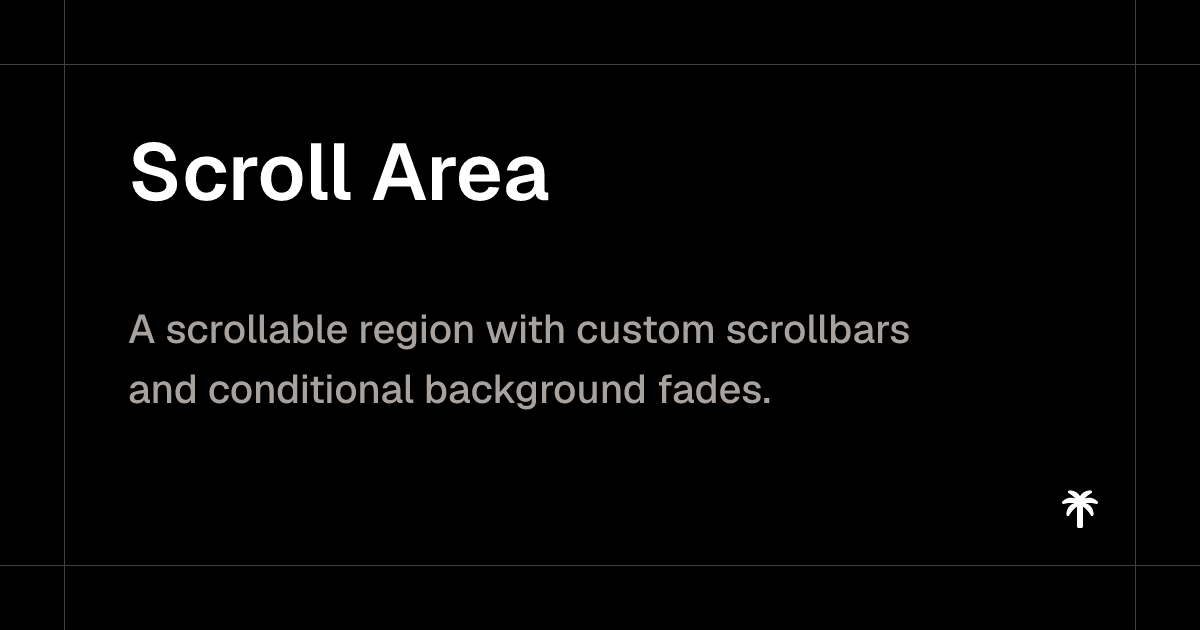
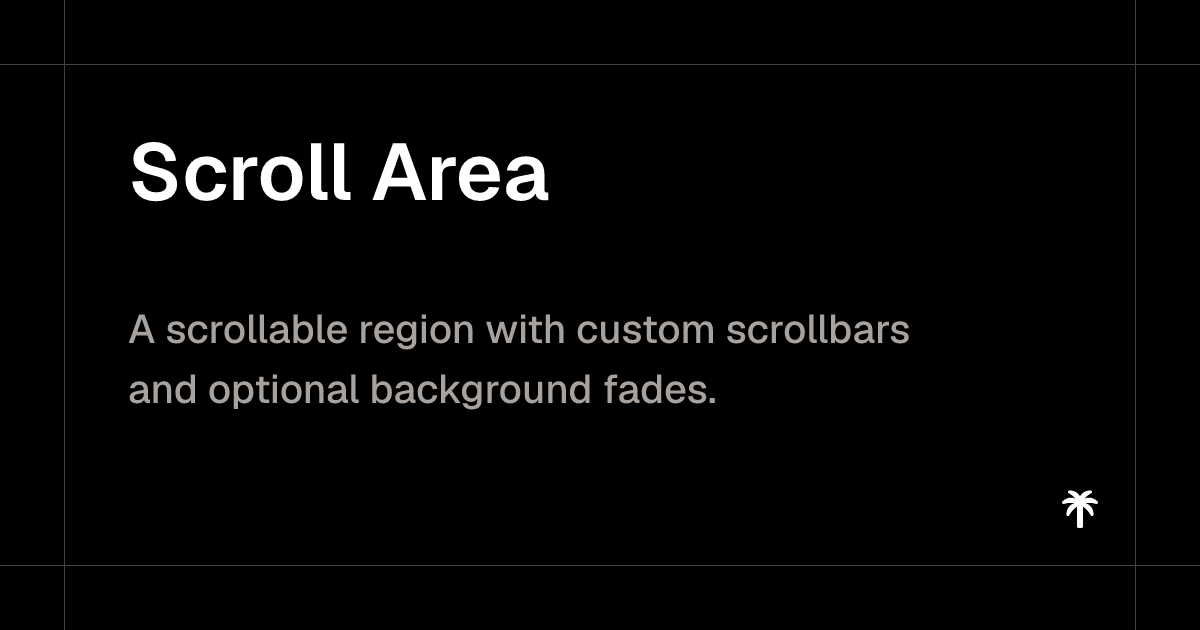
feat: add more examples to scroll-area

Changed region(s): [[0.185, 0.573, 0.6475, 0.6635]]

diff --git a/src/shared/components/component-preview-tabs.tsx b/src/shared/components/component-preview-tabs.tsx
@@ -49,7 +49,7 @@ export function ComponentPreviewTabs({
         <div
           data-slot="code"
           data-mobile-code-visible={isMobileCodeVisible}
-          className="relative overflow-hidden **:data-[slot=copy-button]:right-4 **:data-[slot=copy-button]:hidden data-[mobile-code-visible=true]:**:data-[slot=copy-button]:flex md:**:data-[slot=copy-button]:flex [&_[data-rehype-pretty-code-figure]]:m-0! [&_[data-rehype-pretty-code-figure]]:rounded-t-none [&_[data-rehype-pretty-code-figure]]:border-t [&_pre]:max-h-72"
+          className="relative overflow-hidden **:data-[slot=copy-button]:right-4 **:data-[slot=copy-button]:hidden data-[mobile-code-visible=true]:**:data-[slot=copy-button]:flex md:**:data-[slot=copy-button]:flex [&_[data-rehype-pretty-code-figure]]:m-0! [&_[data-rehype-pretty-code-figure]]:rounded-t-none [&_[data-rehype-pretty-code-figure]]:border-t [&_pre]:max-min-h-72"
         >
           {sourcePreview ? (
             <>
@@ -104,7 +104,7 @@ function PreviewWrapper({
         data-align={align}
         data-chromeless={chromeLessOnMobile}
         className={cn(
-          "preview relative flex h-72 w-full justify-center p-10 data-[align=center]:items-center data-[align=end]:items-end data-[align=start]:items-start data-[chromeless=true]:h-auto data-[chromeless=true]:p-0",
+          "preview relative flex min-h-72 w-full justify-center p-10 data-[align=center]:items-center data-[align=end]:items-end data-[align=start]:items-start data-[chromeless=true]:h-auto data-[chromeless=true]:p-0",
           previewClassName
         )}
       >

diff --git a/examples/hitbox/basic.tsx b/examples/hitbox/basic.tsx
@@ -10,7 +10,7 @@ export default function HitboxDemo() {
   return (
     <div className="relative flex min-h-64 w-full flex-col items-center justify-center gap-5">
       <Label
-        className="absolute top-2 -right-2 flex items-center gap-2 cursor-pointer text-muted-foreground"
+        className="absolute -top-2 -right-1 flex items-center gap-2 cursor-pointer text-muted-foreground"
         htmlFor="show-hitbox"
       >
         <Checkbox
@@ -24,10 +24,10 @@ export default function HitboxDemo() {
       <Button
         className={`group/hitbox w-30 hitbox-6 ${showHitbox ? "hitbox-debug" : ""}`}
       >
-        <span className="group-hover/hitbox:hidden group-active:hidden">
+        <span className="group-hover/hitbox:hidden group-active/hitbox:hidden">
           hitbox-6
         </span>
-        <span className="not-group-hover/hitbox:hidden group-active:hidden">
+        <span className="not-group-hover/hitbox:hidden group-active/hitbox:hidden">
           Hovered
         </span>
         <span className="not-group-active/hitbox:hidden">Pressed</span>

diff --git a/examples/scroll-area/both-shadows.tsx b/examples/scroll-area/both-shadows.tsx
@@ -1,0 +1,36 @@
+import { ScrollArea, ScrollAreaContent } from "@/registry/base/scroll-area";
+
+const shortcuts = [
+  "Command palette",
+  "Toggle sidebar",
+  "Search docs",
+  "Open settings",
+  "New project",
+  "Invite member",
+  "Copy link",
+  "Switch theme",
+  "Open terminal",
+  "View activity",
+  "Send feedback",
+  "Sign out",
+];
+
+export default function ScrollAreaBothShadowsDemo() {
+  return (
+    <div className="border rounded-md">
+      <ScrollArea className="h-64 w-80" orientation="both" scrollShadow="both">
+        <ScrollAreaContent className="grid w-max grid-cols-3 gap-3 p-4">
+          {shortcuts.map((shortcut, index) => (
+            <div
+              className="flex h-24 w-40 flex-col justify-between rounded-md border p-3"
+              key={shortcut}
+            >
+              <p className="font-medium text-sm">{shortcut}</p>
+              <kbd className="text-muted-foreground text-xs">⌘ {index + 1}</kbd>
+            </div>
+          ))}
+        </ScrollAreaContent>
+      </ScrollArea>
+    </div>
+  );
+}

diff --git a/examples/scroll-area/vertical-shadow.tsx b/examples/scroll-area/vertical-shadow.tsx
@@ -1,0 +1,31 @@
+import { ScrollArea, ScrollAreaContent } from "@/registry/base/scroll-area";
+
+const activity = [
+  "Published the new component registry.",
+  "Reviewed accessibility labels.",
+  "Updated the color tokens.",
+  "Added responsive navigation.",
+  "Resolved the latest feedback.",
+  "Prepared the release notes.",
+  "Synced the design files.",
+  "Scheduled the next review.",
+];
+
+export default function ScrollAreaVerticalShadowDemo() {
+  return (
+    <div className="border rounded-md">
+      <ScrollArea className="h-64 w-80" scrollShadow="vertical">
+        <ScrollAreaContent className="space-y-3 p-4">
+          {activity.map((item, index) => (
+            <div className="rounded-md border p-3 text-sm" key={item}>
+              <p>{item}</p>
+              <p className="text-muted-foreground mt-1 text-xs">
+                {index + 1} hour{index === 0 ? "" : "s"} ago
+              </p>
+            </div>
+          ))}
+        </ScrollAreaContent>
+      </ScrollArea>
+    </div>
+  );
+}

diff --git a/examples/scroll-area/horizontal-shadow.tsx b/examples/scroll-area/horizontal-shadow.tsx
@@ -1,0 +1,26 @@
+import { ScrollArea, ScrollAreaContent } from "@/registry/base/scroll-area";
+
+const months = ["January", "February", "March", "April", "May", "June"];
+
+export default function ScrollAreaHorizontalShadowDemo() {
+  return (
+    <div className="border rounded-md">
+      <ScrollArea
+        className="h-48 w-80"
+        orientation="horizontal"
+        scrollShadow="horizontal"
+      >
+        <ScrollAreaContent className="flex h-full w-max gap-3 p-4">
+          {months.map((month, index) => (
+            <div className="w-40 shrink-0 rounded-md border p-3" key={month}>
+              <p className="font-medium text-sm">{month}</p>
+              <p className="text-muted-foreground mt-6 text-xs">
+                {12 + index * 3} tasks planned
+              </p>
+            </div>
+          ))}
+        </ScrollAreaContent>
+      </ScrollArea>
+    </div>
+  );
+}

diff --git a/examples/scroll-area/horizontal-layout.tsx b/examples/scroll-area/horizontal-layout.tsx
@@ -1,0 +1,25 @@
+import { ScrollArea, ScrollAreaContent } from "@/registry/base/scroll-area";
+
+const projects = [
+  ["Website refresh", "In review"],
+  ["Mobile navigation", "In progress"],
+  ["Design tokens", "Ready"],
+  ["Analytics dashboard", "Planned"],
+];
+
+export default function ScrollAreaHorizontalLayoutDemo() {
+  return (
+    <div className="border rounded-md">
+      <ScrollArea className="h-52 w-80" orientation="horizontal">
+        <ScrollAreaContent className="flex h-full w-max gap-3 p-4">
+          {projects.map(([name, status]) => (
+            <div className="w-44 shrink-0 rounded-md border p-3" key={name}>
+              <p className="font-medium text-sm">{name}</p>
+              <p className="text-muted-foreground mt-1 text-xs">{status}</p>
+            </div>
+          ))}
+        </ScrollAreaContent>
+      </ScrollArea>
+    </div>
+  );
+}

diff --git a/examples/scroll-area/both-scroll.tsx b/examples/scroll-area/both-scroll.tsx
@@ -1,0 +1,35 @@
+import { ScrollArea, ScrollAreaContent } from "@/registry/base/scroll-area";
+
+const colors = [
+  "Sky",
+  "Violet",
+  "Rose",
+  "Amber",
+  "Emerald",
+  "Cyan",
+  "Indigo",
+  "Orange",
+  "Lime",
+  "Fuchsia",
+  "Teal",
+  "Red",
+];
+
+export default function ScrollAreaBothScrollDemo() {
+  return (
+    <div className="border rounded-md">
+      <ScrollArea className="h-64 w-80" orientation="both">
+        <ScrollAreaContent className="grid w-max grid-cols-4 gap-3 p-4">
+          {colors.map((color) => (
+            <div
+              className="flex h-24 w-36 items-end rounded-md border bg-muted/40 p-3 font-medium text-sm"
+              key={color}
+            >
+              {color}
+            </div>
+          ))}
+        </ScrollAreaContent>
+      </ScrollArea>
+    </div>
+  );
+}

diff --git a/examples/scroll-area/hide-scrollbar.tsx b/examples/scroll-area/hide-scrollbar.tsx
@@ -9,14 +9,12 @@ export default function ScrollAreaHideScrollbarDemo() {
   return (
     <div className="border rounded-md">
       <ScrollArea className="h-64 w-80" hideScrollbar scrollShadow="vertical">
-        <ScrollAreaContent className="p-4">
-          <div className="space-y-3 pb-4">
-            {items.map((item) => (
-              <p className="text-sm" key={item}>
-                {item}
-              </p>
-            ))}
-          </div>
+        <ScrollAreaContent className="space-y-3 p-4">
+          {items.map((item) => (
+            <p className="text-sm" key={item}>
+              {item}
+            </p>
+          ))}
         </ScrollAreaContent>
       </ScrollArea>
     </div>

diff --git a/examples/scroll-area/default.tsx b/examples/scroll-area/default.tsx
@@ -5,7 +5,7 @@ export default function ScrollAreaDefaultDemo() {
     <div className="border rounded-md">
       <ScrollArea className="h-64 w-80" scrollShadow="vertical">
         <ScrollAreaContent className="p-4">
-          <p className="space-y-3 pb-4">
+          <p>
             At the edge of the town stood a narrow house with seven windows. Six
             looked toward the road, where carts passed in the morning and lamps
             appeared at night. The seventh looked toward the hills. Nobody paid

diff --git a/src/shared/components/home-ctas.tsx b/src/shared/components/home-ctas.tsx
@@ -25,6 +25,7 @@ const GetStartedButton = () => {
   return (
     <Button
       render={<Link href={ROUTES.DOCS_INSTALLATION} />}
+      nativeButton={false}
       className="px-4"
       onMouseEnter={handleMouseEnter}
       onMouseLeave={handleMouseLeave}
@@ -49,6 +50,7 @@ const BrowseComponentsButton = () => {
   return (
     <Button
       render={<Link href={ROUTES.DOCS_COMPONENTS} />}
+      nativeButton={false}
       variant="outline"
       className="px-4"
       onMouseEnter={handleMouseEnter}

diff --git a/src/shared/components/pages/default-not-found-page.tsx b/src/shared/components/pages/default-not-found-page.tsx
@@ -12,7 +12,7 @@ export const DefaultNotFoundPage = () => (
     <p className="text-muted-foreground mt-4 max-w-md text-balance">
       The page you are looking for does not exist or has moved.
     </p>
-    <Button render={<Link to="/" />} className="mt-8">
+    <Button render={<Link to="/" />} nativeButton={false} className="mt-8">
       <Home />
       Go home
     </Button>

diff --git a/src/shared/components/pages/default-error-page.tsx b/src/shared/components/pages/default-error-page.tsx
@@ -37,7 +37,7 @@ export const DefaultErrorPage = ({
           home.
         </p>
         <div className="mt-8 flex flex-wrap justify-center gap-2">
-          <Button render={<Link to="/" />}>
+          <Button render={<Link to="/" />} nativeButton={false}>
             <Home />
             Go home
           </Button>
